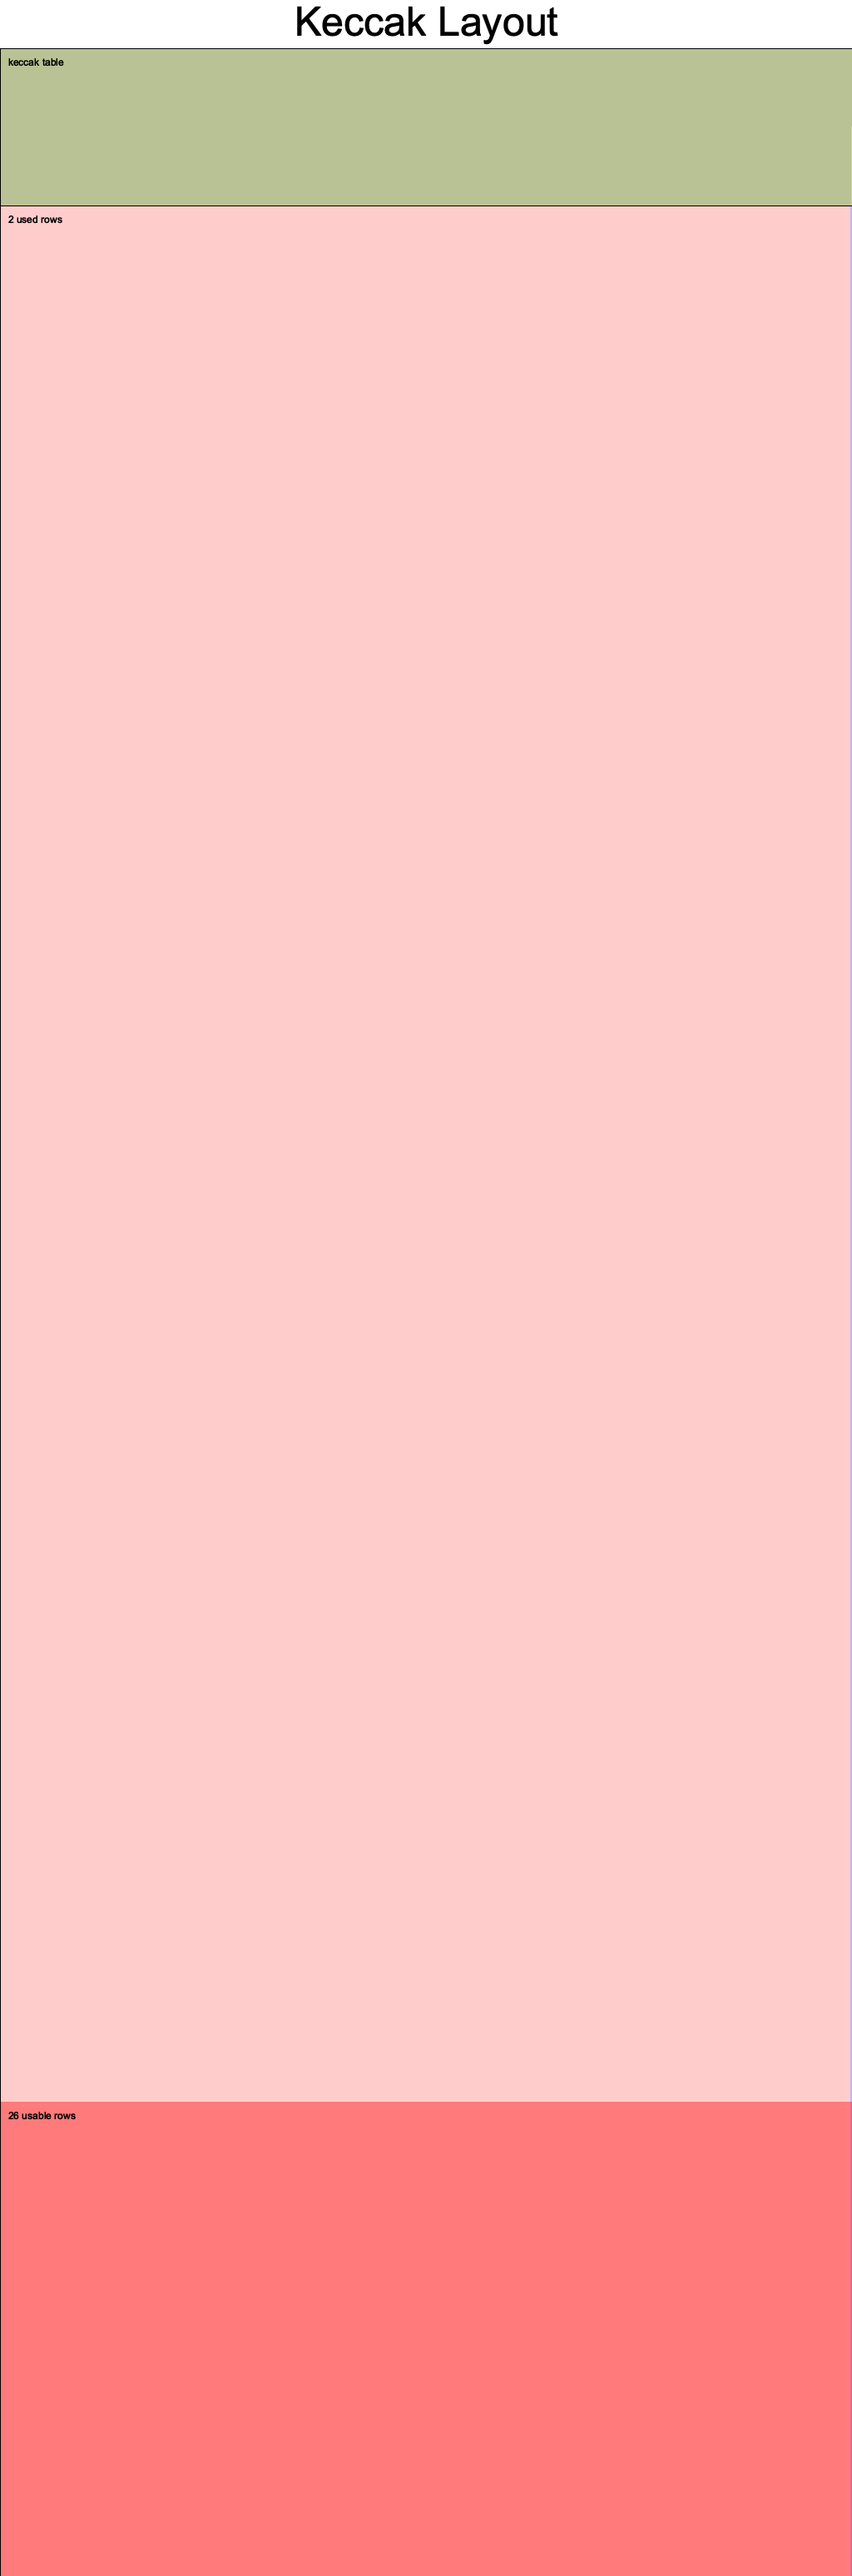
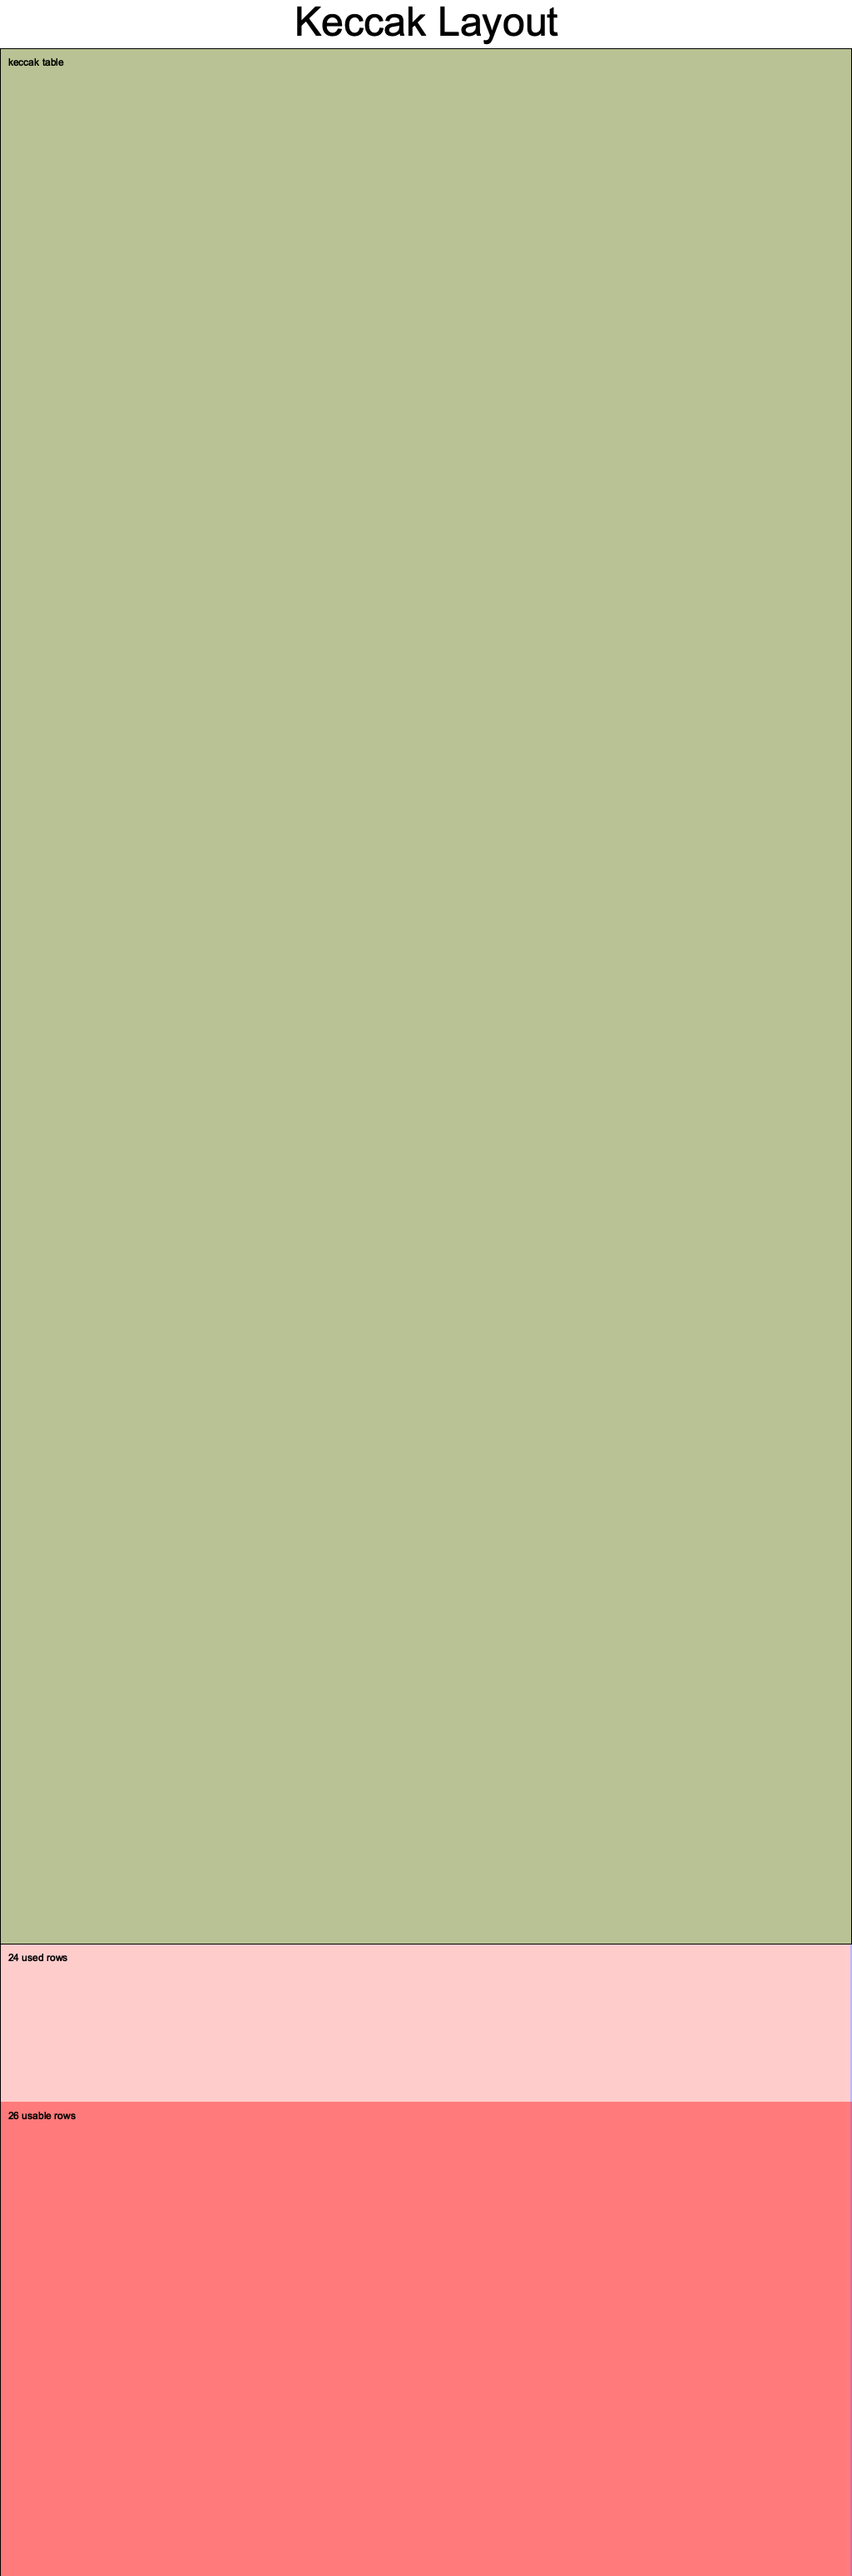
fix: correct A''' values

diff --git a/src/lib.rs b/src/lib.rs
@@ -2,9 +2,9 @@ mod columns;
 mod constants;
 mod logic;
 
-use ff::{PrimeField, PrimeFieldBits};
-use halo2_proofs::{arithmetic::Field, circuit::*, plonk::*, poly::Rotation};
-use std::{f32::consts::E, marker::PhantomData};
+use ff::PrimeFieldBits;
+use halo2_proofs::{circuit::*, plonk::*, poly::Rotation};
+use std::marker::PhantomData;
 
 use columns::{
     reg_a, reg_a_prime, reg_a_prime_prime, reg_a_prime_prime_0_0_bit, reg_a_prime_prime_prime,
@@ -16,7 +16,7 @@ use logic::{andn, andn_gen, xor, xor3_gen, xor_gen};
 
 /// Number of rounds in a Keccak permutation.
 // pub(crate) const NUM_ROUNDS: usize = 24;
-pub(crate) const NUM_ROUNDS: usize = 2;
+pub(crate) const NUM_ROUNDS: usize = 24;
 
 /// Number of 64-bit elements in the Keccak permutation input.
 pub(crate) const NUM_INPUTS: usize = 25;
@@ -233,31 +233,31 @@ impl<F: PrimeFieldBits> KeccakChip<F> {
 
         // A'''[0, 0] = A''[0, 0] XOR RC
         // TODO: Maybe use fixed column for RC
-        // meta.create_gate("a_prime_prime_prime_0_0", |meta| {
-        //     let s = meta.query_selector(selector);
+        meta.create_gate("a_prime_prime_prime_0_0", |meta| {
+            let s = meta.query_selector(selector);
 
-        //     let a_prime_prime_prime_0_0 =
-        //         meta.query_advice(cols[reg_a_prime_prime_prime(0, 0)], Rotation::cur());
-        //     let mut get_xored_bit = |i| {
-        //         let rc_bit_i = (0..NUM_ROUNDS).fold(Expression::Constant(F::ZERO), |acc, r| {
-        //             let this_round = meta.query_advice(cols[reg_step(r)], Rotation::cur());
-        //             let this_round_constant =
-        //                 Expression::Constant(F::from(rc_value_bit(r, i) as u64));
-        //             acc + this_round * this_round_constant
-        //         });
+            let a_prime_prime_prime_0_0 =
+                meta.query_advice(cols[reg_a_prime_prime_prime(0, 0)], Rotation::cur());
+            let mut get_xored_bit = |i| {
+                let rc_bit_i = (0..NUM_ROUNDS).fold(Expression::Constant(F::ZERO), |acc, r| {
+                    let this_round = meta.query_advice(cols[reg_step(r)], Rotation::cur());
+                    let this_round_constant =
+                        Expression::Constant(F::from(rc_value_bit(r, i) as u64));
+                    acc + this_round * this_round_constant
+                });
 
-        //         xor_gen(
-        //             meta.query_advice(cols[reg_a_prime_prime_0_0_bit(i)], Rotation::cur()),
-        //             Expression::Constant(if i == 0 { F::ONE } else { F::ZERO }),
-        //         )
-        //     };
+                xor_gen(
+                    meta.query_advice(cols[reg_a_prime_prime_0_0_bit(i)], Rotation::cur()),
+                    rc_bit_i,
+                )
+            };
 
-        //     let computed = (0..64).rev().fold(Expression::Constant(F::ZERO), |acc, z| {
-        //         Expression::Constant(F::from(2)) * acc + get_xored_bit(z)
-        //     });
+            let computed = (0..64).rev().fold(Expression::Constant(F::ZERO), |acc, z| {
+                Expression::Constant(F::from(2)) * acc + get_xored_bit(z)
+            });
 
-        //     vec![s * (a_prime_prime_prime_0_0 - computed)]
-        // });
+            vec![s * (a_prime_prime_prime_0_0 - computed)]
+        });
 
         // Copying A'' to A for next round
         for x in 0..5 {
@@ -302,9 +302,28 @@ impl<F: PrimeFieldBits> KeccakChip<F> {
     }
 
     pub fn assign(&self, mut layouter: impl Layouter<F>) -> Result<(), Error> {
+        let field_to_u64 = |x: F| {
+            x.to_le_bits()
+                .iter()
+                .rev()
+                .fold(0u64, |acc, b| (acc << 1) + (*b as u64))
+        };
+
+        let print_row = |caption, row: &[F]| {
+            println!("{:}", caption);
+            for y in 0..5 {
+                for x in 0..5 {
+                    let idx = reg_a_prime_prime_prime(x, y);
+                    print!("{:016x} ", field_to_u64(row[idx]));
+                }
+                println!();
+            }
+        };
+
         layouter.assign_region(
             || "keccak table",
             |mut region| {
+
                 // Store values in local row
                 let mut row: [F; NUM_COLUMNS] = [F::ZERO; NUM_COLUMNS];
 
@@ -350,6 +369,10 @@ impl<F: PrimeFieldBits> KeccakChip<F> {
 
                 // Assign remaining rows
                 for round in 0..NUM_ROUNDS {
+                    println!("------------------------------------------------------------------------------------");
+                    println!("Round: {}", round);
+                    println!("------------------------------------------------------------------------------------");
+
                     self.config.selector.enable(&mut region, round)?;
 
                     if round < NUM_ROUNDS - 1 {
@@ -504,6 +527,7 @@ impl<F: PrimeFieldBits> KeccakChip<F> {
                     let val = F::from(
                         a_prime_prime_0_0_bits
                             .iter()
+                            .rev()
                             .fold(0u64, |acc, b| (acc << 1) + (*b as u64))
                             ^ rc_value(round),
                     );
@@ -514,6 +538,9 @@ impl<F: PrimeFieldBits> KeccakChip<F> {
                         || Value::known(val),
                     )?;
                     row[reg_a_prime_prime_prime(0, 0)] = val;
+
+                    print_row("After theta:", &row);
+                    println!("------------------------------------------------------------------------------------");
                 }
 
                 Ok(())
@@ -544,9 +571,7 @@ impl<F: PrimeFieldBits> Circuit<F> for KeccakCircuit<F> {
     ) -> Result<(), Error> {
         let chip = KeccakChip::construct(config);
 
-        let out_cell = chip.assign(layouter.namespace(|| "table"))?;
-
-        // chip.expose_public(layouter.namespace(|| "out"), &out_cell, NUM_INPUTS + 1)?;
+        chip.assign(layouter.namespace(|| "table"))?;
 
         Ok(())
     }
@@ -564,9 +589,6 @@ mod tests {
     #[test]
     fn keccak_example1() {
         let k = 6;
-
-        // let a = Fp::from(1); // F[0]
-        // let out = Fp::from(55); // F[9]
 
         let circuit = KeccakCircuit(PhantomData);
 
